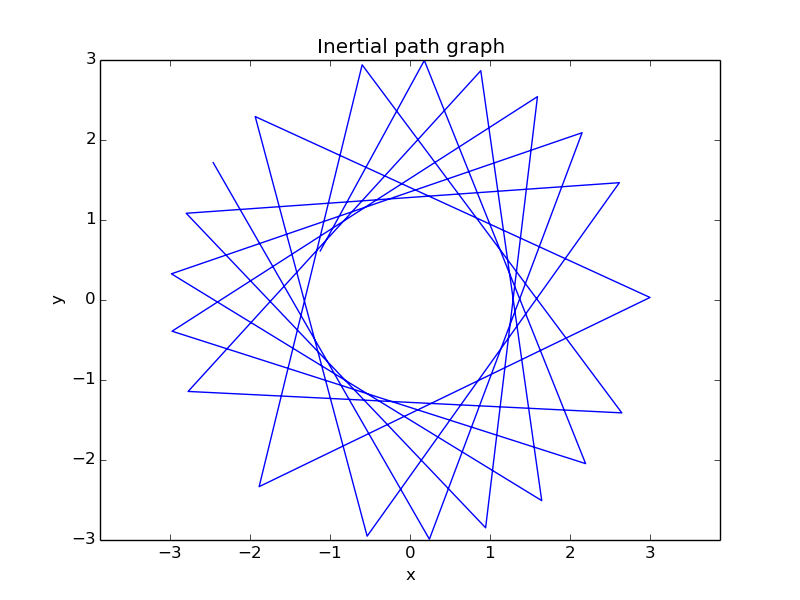
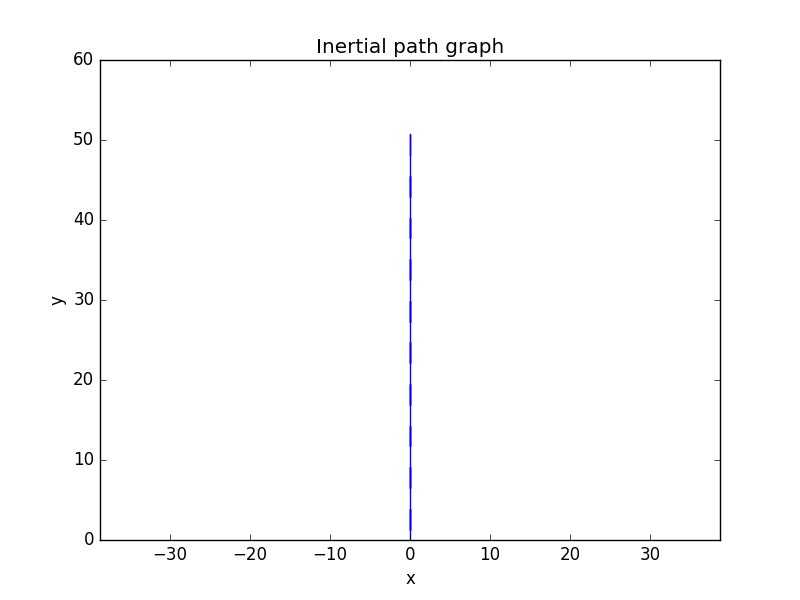
Bug fixes in run
Changed switch_to_masspoint() to array syntax
Rewritten init_angle()

diff --git a/run.py b/run.py
@@ -2,49 +2,57 @@
 from collider import *
 from ploter import *
 from Body import *
-from numpy.linalg import norm
-import math
+import copy
 
-it = 100
-bill_0 = Body(1., 1., [0., 0.], [1., 1.])
+it = 20
+bill_0 = Body(1., 0., [0., 0.], [1., 1.])
 ring_0 = Body(2., 4., [0., 0.], [0., 0.])
-switch_to_masspoint(bill_0, ring_0)
-init_angle(bill_0, ring_0, math.pi/8.0)
+
+init_angle(bill_0, ring_0, math.pi / 3.0)
 plot_bodies(bill_0, ring_0, 'Initial position')
 
-def angle(pos1, pos2, pos3):
-	cos = -0.5 * (norm(pos1 - pos3) ** 2 - norm(pos1 - pos2) ** 2 - norm(pos2 - pos3) ** 2) / (norm(
-		pos1 - pos2) * norm(pos2 - pos3))
-	return math.acos(cos)
+bill_i, ring_i = copy.copy(bill_0), copy.copy(ring_0)
+bill_r, ring_r = copy.copy(bill_0), copy.copy(ring_0)
+switch_to_masspoint(bill_i, ring_i)
+
+pos_rigid = [bill_r.pos]
+pos_inertial = [bill_i.pos]
+
+for i in range(it):
+	bill_r, ring_r = collide_rigid(bill_r, ring_r)
+	bill_i, ring_i = collide_inertial(bill_i, ring_i)
+	pos_rigid.append(list(bill_r.pos))
+	pos_inertial.append(bill_i.pos)
 
 
-bill_0 = Body(1., 1, [1., 1.], [2., 1.])
-ring_0 = Body(2., 4, [0., 0.], [0., 0.])
-# init_angle(bill, ring, 0.5)
-# switch_to_masspoint(bill, ring)
+# plot paths
+def ploter():
+	plt.plot(*zip(*pos_rigid), color='r')
+	plt.axis('equal')
+	plt.title("Rigid path graph")
+	plt.xlabel('x')
+	plt.ylabel('y')
+	plt.savefig('pos rigid.png')
+	plt.plot(*zip(*pos_inertial), color='b')
+	plt.savefig('pos both.png')
 
-# pos_b, rad_b = run(bill, ring, 50)
-def run_rigid():
-	pos_rigid = [bill_0.pos]
-	bill, ring = bill_0, ring_0
-	for i in range(10):
-		bill, ring = collide_rigid(bill, ring)
-		pos_rigid.append(bill.pos)
-		print('New position:', bill.pos)
-	# print('New velocity:', bill.v)
+	plt.close()
 
-	# plot_vs_collision(rad_b, 51, "Radius")
-	plot_pos(pos_rigid)
-
-	angles = []
-	for i in range(1, 9):
-		angles.append(angle(pos_rigid[i-1], pos_rigid[i], pos_rigid[1+i]))
-
-	plot_vs_collision(angles, len(angles))
+	plt.plot(*zip(*pos_inertial), color='b')
+	plt.axis('equal')
+	plt.title("Inertial path graph")
+	plt.xlabel('x')
+	plt.ylabel('y')
+	plt.savefig('pos inertial.png')
+	plt.close()
 
 
-pos_inertial = run_inertial(bill_0, ring_0, 50)
-angles = []
-for i in range(1, 49):
-	angles.append(angle(pos_inertial[i-1], pos_inertial[i], pos_inertial[1+i]))
-plot_vs_collision(angles, len(angles), 'Angle in inertial')
+# ploter()
+def ploter2():
+	plt.plot(*zip(*pos_inertial), color='r')
+	plt.axis('equal')
+	plt.title("pi/8 path graph")
+	plt.xlabel('x')
+	plt.ylabel('y')
+	plt.savefig('pos pi_3.png')
+	plt.close()

diff --git a/collider.py b/collider.py
@@ -110,21 +110,26 @@ def collide_rigid(bill, ring):
 def switch_to_masspoint(b, r):
 	vx = (b.m * b.v[0] + r.m * r.v[0]) / (b.m + r.m)
 	vy = (b.m * b.v[1] + r.m * r.v[1]) / (b.m + r.m)
-
+	v = (b.v * b.m + r.v * r.m)/(b.m + r.m)
 	x = (b.m * b.pos[0] + r.m * r.pos[0]) / (b.m + r.m)
 	y = (b.m * b.pos[1] + r.m * r.pos[1]) / (b.m + r.m)
-
+	pos = (b.pos * b.m + r.pos * r.m)/(b.m + r.m)
 	for k in [b, r]:
-		k.v = k.v - np.array([vx, vy])
-		k.pos = k.pos - np.array([x, y])
+		k.v = k.v - v
+		k.pos = k.pos - pos
+
+	print('Momentum:', b.v * b.m + r.v * r.m)
+	print('Masspoint:', b.pos * b.m + r.pos * r.m)
 
 
-def init_angle(bill, ring, fi=0):
+def init_angle(bill, ring, fi=0, velocity=1.):
 	# works properly in max range only with ring.pos=[0 0]
-	a = math.tan(fi)
-	bill.pos[0] = - (a * ring.r) / (a ** 2 + 1.)
-	bill.pos[1] = ring.r - ring.r / (a ** 2 + 1.)
-	bill.v = np.array([math.sin(fi), math.cos(fi)])
+	y = ring.r * (1. - math.cos(2 * fi)) * 0.5
+	x = - ring.r * math.sin(2 * fi) * 0.5
+	# in coordinates according to ring's center
+
+	bill.pos = np.array([x, y]) + ring.pos
+	bill.v = np.array([math.sin(fi) * velocity, math.cos(fi) * velocity])
 
 	if np.linalg.norm(ring.pos - bill.pos) > ring.r - bill.r:
 		print('Warning: Angle over limit!', fi)

diff --git a/ploter.py b/ploter.py
@@ -9,16 +9,20 @@ def plot_bodies(b1, b2, title = 'Position'):
 	plt.axis('equal')
 	plt.title(title)
 	ax = fig.add_subplot(111)
-	# print('Pos b1:', b1.pos)
+
+	p1 = Circle((b1.pos[0], b1.pos[1]), radius=0.1, fill=True, color='g')
+	p2 = Circle((b2.pos[0], b2.pos[1]), radius=0.1, fill=True, color='r')
 	c1 = Circle((b1.pos[0], b1.pos[1]), radius=b1.r, fill=False, color='g')
 	c2 = Circle((b2.pos[0], b2.pos[1]), radius=b2.r, fill=False, color='r')
 
 	ax.add_patch(c1)
 	ax.add_patch(c2)
+	ax.add_patch(p1)
+	ax.add_patch(p2)
 
 	ax.autoscale_view()
 	#ax.figure.canvas.draw()
-	plt.savefig('position test.png')
+	plt.savefig('position graph.png')
 	plt.close()
 
 
